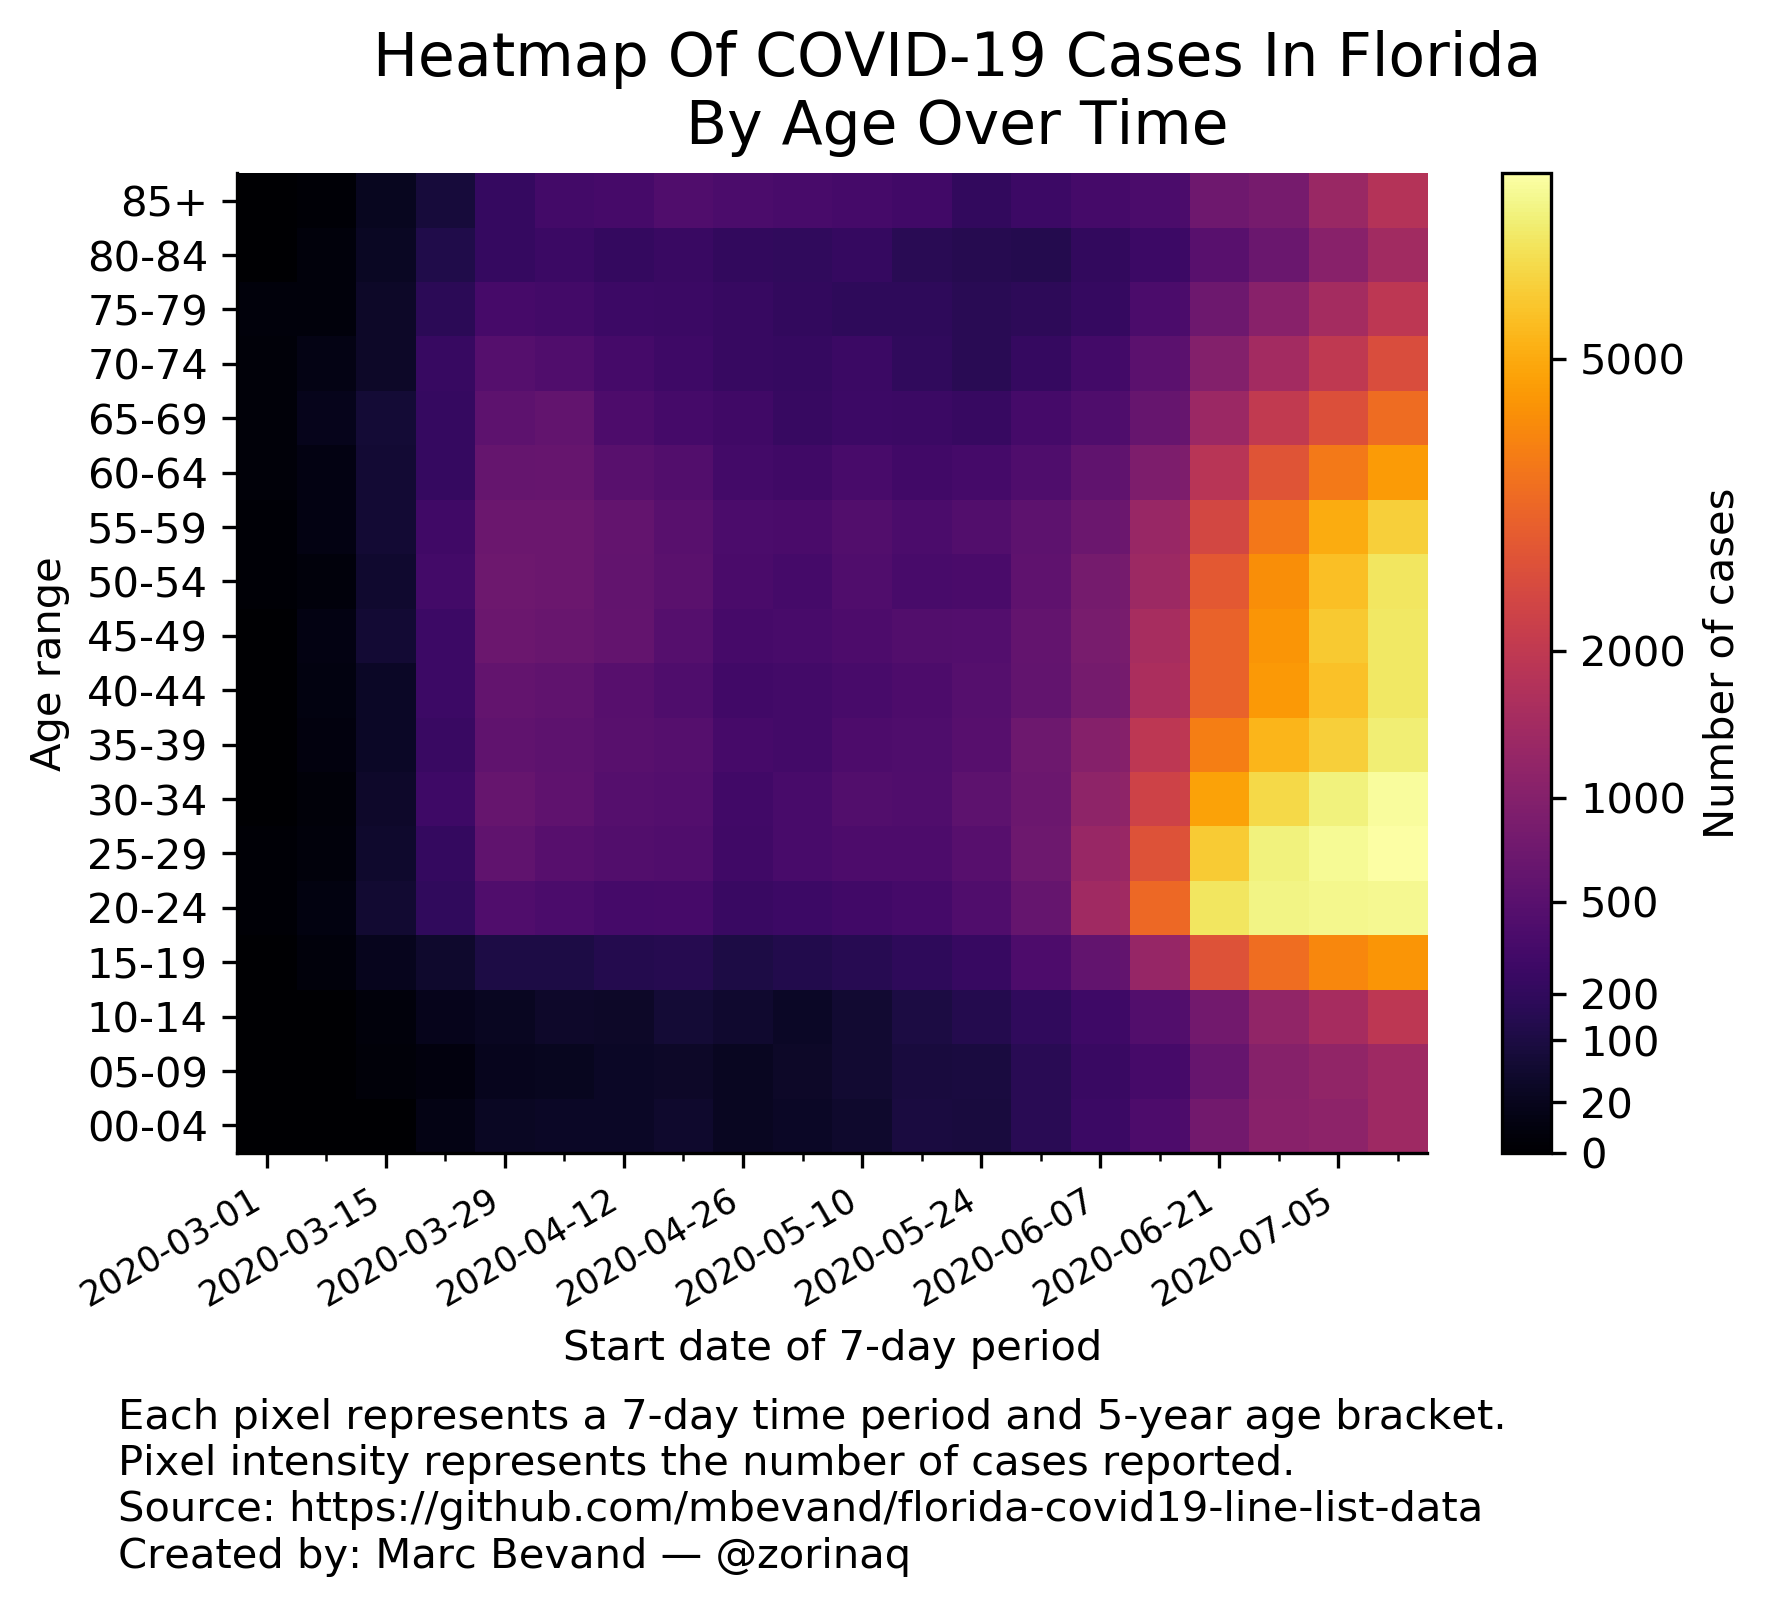
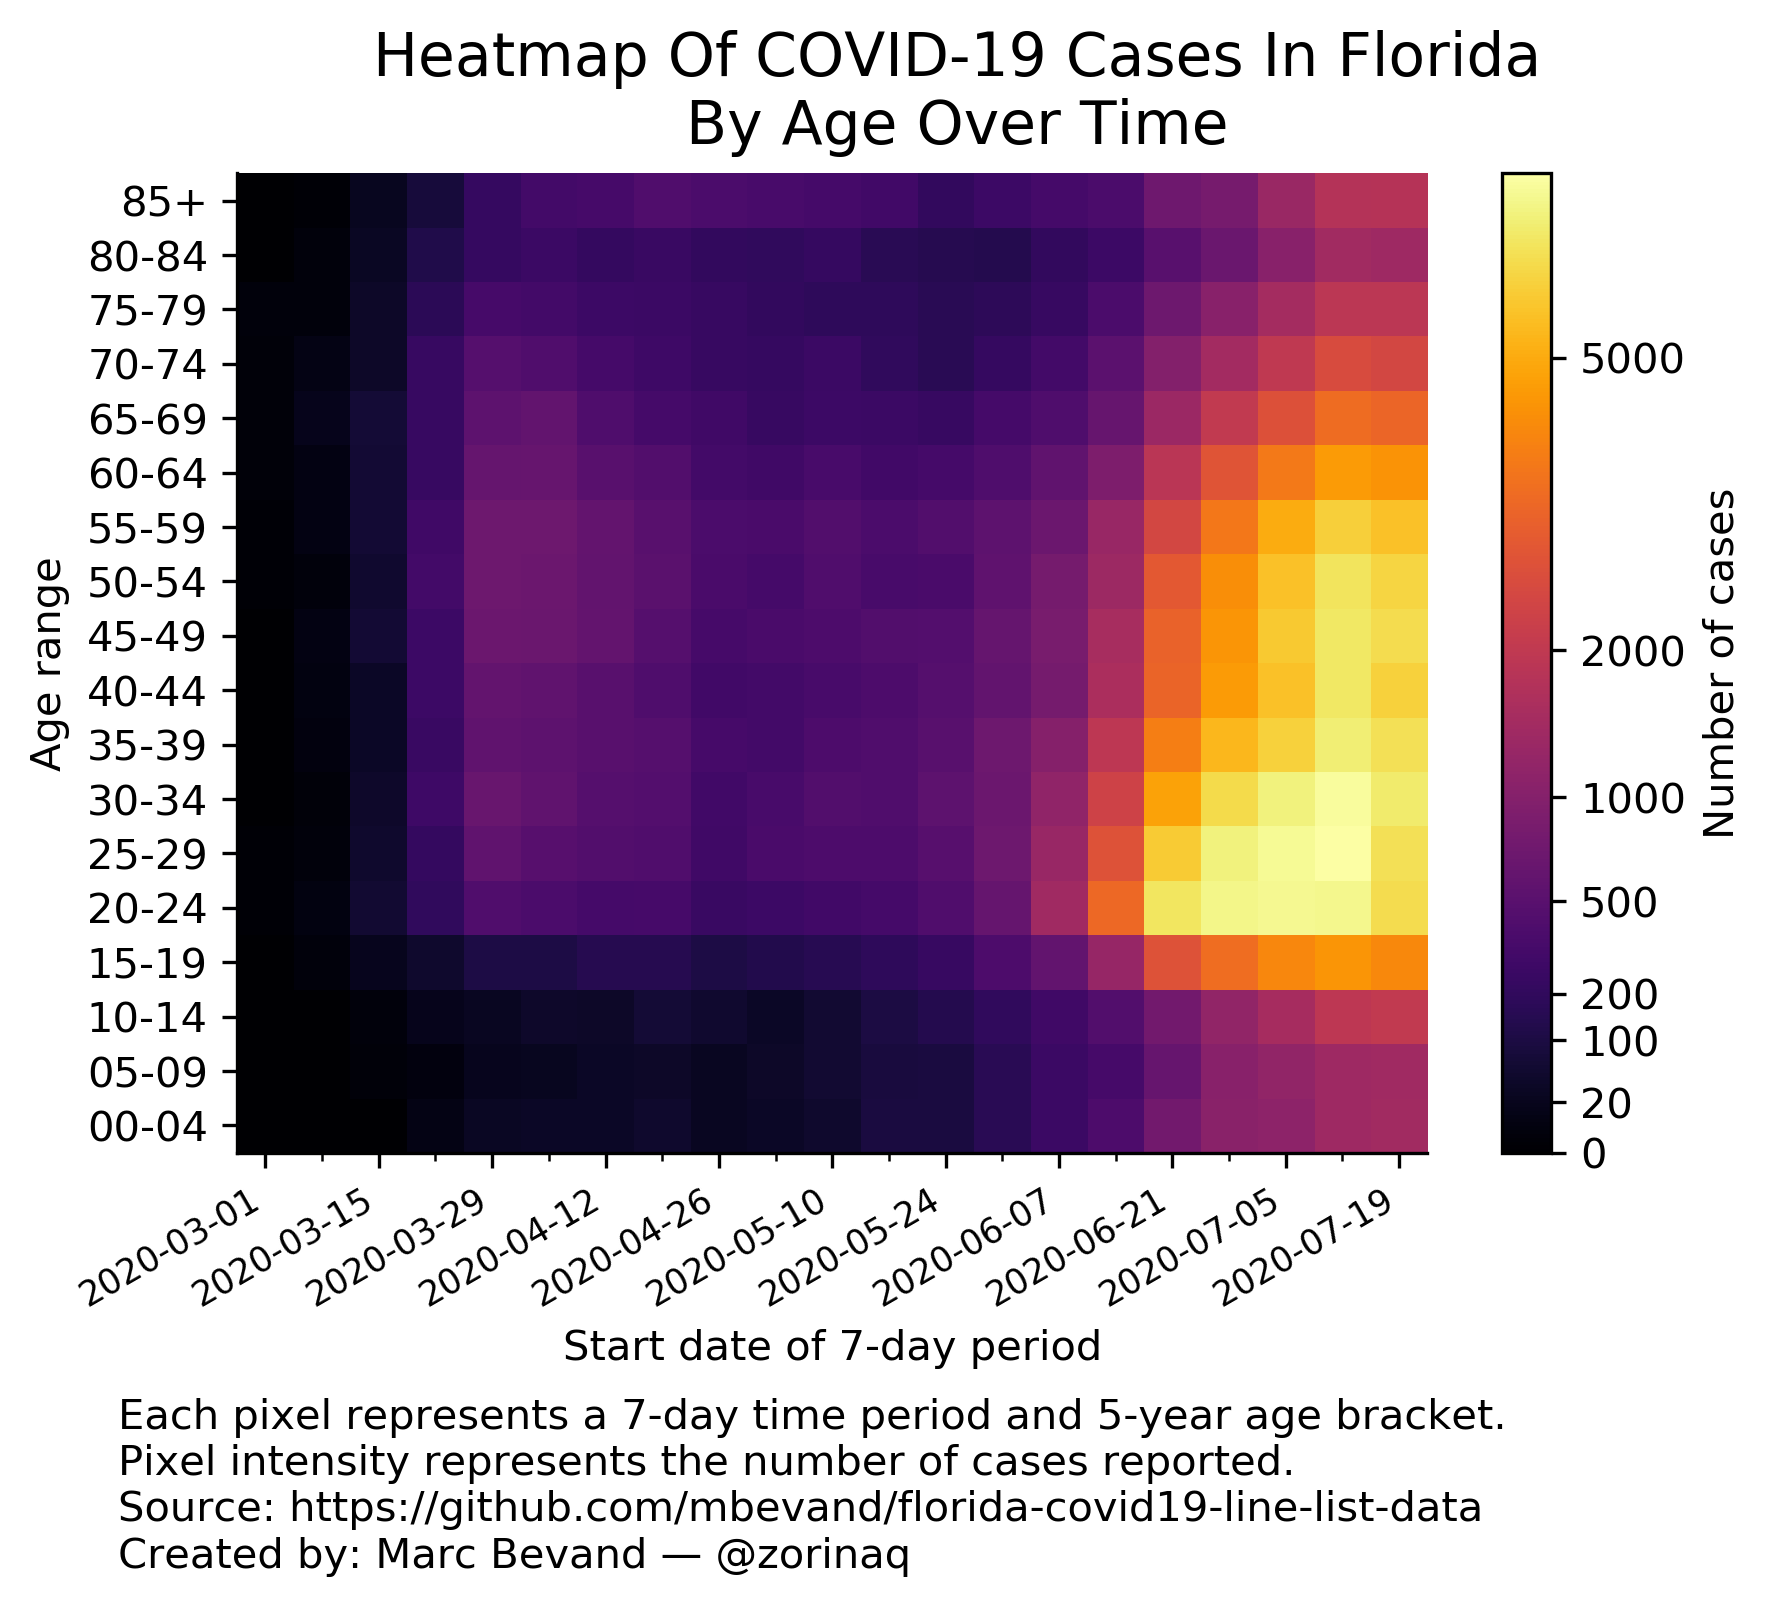
update heatmaps

Changed region(s): [[0.5587, 0.0934, 0.807, 0.7161], [0.0621, 0.7161, 0.776, 0.8095], [0.1862, 0.0934, 0.2793, 0.5915]]

diff --git a/heatmap.py b/heatmap.py
@@ -238,7 +238,7 @@ def main():
             comment='number of cases reported')
     gen_heatmap(share_positive, 'heatmap_age_share', cm='viridis', clabel='Percentage of cases',
             title=' (Percentage)', comment='percentage of cases in the age bracket\namong all cases in the time period')
-    gen_heatmap(cases_per_capita, 'heatmap_per_capita', sqrt=True, cm='jet', clabel='Number of cases per 1000 residents',
+    gen_heatmap(cases_per_capita, 'heatmap_per_capita', sqrt=True, cm='cividis', clabel='Number of cases per 1000 residents',
             title=' (Per Capita)', comment='number of cases reported per capita')
 
 if __name__ == "__main__":

diff --git a/README.md b/README.md
@@ -1,6 +1,6 @@
 # Forecasting deaths and analyzing age trends of COVID-19 cases in Florida
 
-*Updated: 22 July 2020*
+*Updated: 26 July 2020*
 
 Authors: Marc Bevand
 
@@ -292,30 +292,31 @@ It creates various heatmaps of cases by age over time:
 
 ```
 $ ./heatmap.py
-Opening data_fdoh/2020-07-19-10-12-32.csv
+Opening data_fdoh/2020-07-26-08-01-29.csv
 Number of COVID-19 cases per 7-day time period in Florida by age bracket over time:
 period_start, 00-04, 05-09, 10-14, 15-19, 20-24, 25-29, 30-34, 35-39, 40-44, 45-49, 50-54, 55-59, 60-64, 65-69, 70-74, 75-79, 80-84, 85+, median_age
   2020-03-01,     0,     0,     0,     0,     1,     1,     0,     0,     0,     0,     1,     1,     2,     2,     2,     3,     0,     0,  65.0
   2020-03-08,     0,     0,     0,     4,     7,     3,     2,     5,     6,     8,     4,     8,     9,    17,    10,     4,     3,     1,  59.0
   2020-03-15,     0,     2,     3,    21,    57,    48,    45,    36,    34,    63,    54,    64,    64,    67,    40,    41,    30,    26,  53.0
   2020-03-22,    10,     5,    17,    49,   204,   222,   284,   254,   272,   273,   315,   297,   235,   235,   237,   176,   120,    84,  50.0
-  2020-03-29,    32,    21,    28,   109,   428,   577,   651,   583,   604,   701,   716,   705,   631,   550,   470,   345,   234,   228,  50.0
+  2020-03-29,    32,    21,    28,   109,   428,   577,   652,   583,   604,   701,   716,   705,   630,   550,   470,   345,   234,   228,  50.0
   2020-04-05,    34,    25,    42,   108,   383,   481,   568,   541,   577,   669,   699,   706,   636,   593,   419,   314,   262,   325,  51.0
-  2020-04-12,    37,    35,    41,   142,   330,   437,   465,   495,   490,   608,   595,   614,   494,   404,   335,   270,   220,   344,  50.0
-  2020-04-19,    49,    39,    67,   149,   341,   428,   459,   467,   416,   462,   518,   499,   442,   332,   279,   260,   246,   424,  50.0
+  2020-04-12,    37,    35,    41,   142,   330,   437,   465,   495,   490,   608,   595,   614,   493,   404,   335,   270,   220,   344,  50.0
+  2020-04-19,    49,    39,    67,   149,   341,   428,   459,   467,   416,   462,   518,   499,   441,   332,   279,   260,   246,   424,  50.0
   2020-04-26,    29,    29,    55,   111,   251,   296,   308,   339,   305,   348,   375,   382,   323,   301,   240,   237,   205,   383,  52.0
   2020-05-03,    37,    38,    35,   132,   276,   364,   355,   321,   319,   364,   328,   373,   297,   245,   225,   212,   202,   363,  50.0
-  2020-05-10,    51,    58,    60,   151,   313,   401,   435,   399,   354,   399,   424,   432,   353,   270,   261,   191,   225,   334,  49.0
+  2020-05-10,    51,    58,    60,   151,   313,   401,   435,   399,   354,   399,   424,   432,   352,   270,   261,   191,   225,   334,  49.0
   2020-05-17,    94,    88,    98,   193,   329,   392,   423,   417,   392,   443,   357,   379,   306,   257,   197,   189,   161,   312,  46.0
-  2020-05-24,    91,    94,   136,   242,   425,   481,   545,   490,   469,   447,   375,   445,   336,   237,   164,   159,   145,   208,  42.0
-  2020-05-31,   162,   161,   201,   401,   625,   707,   693,   707,   594,   618,   560,   540,   413,   333,   231,   182,   138,   270,  40.0
-  2020-06-07,   257,   256,   290,   592,  1406,  1291,  1159,  1022,   814,   845,   808,   691,   576,   408,   322,   235,   206,   328,  37.0
-  2020-06-14,   393,   342,   435,  1276,  3359,  2754,  2320,  1939,  1608,  1558,  1365,  1281,   916,   651,   529,   378,   272,   378,  34.0
-  2020-06-21,   769,   645,   765,  2760,  6604,  5838,  4819,  3916,  3235,  3201,  2954,  2444,  1869,  1350,   992,   718,   501,   725,  34.0
-  2020-06-28,  1068,  1047,  1202,  3479,  7136,  7010,  6241,  5306,  4597,  4463,  4320,  3758,  2828,  2041,  1464,  1058,   680,   831,  36.0
-  2020-07-05,  1118,  1188,  1529,  4132,  7246,  7350,  6980,  5975,  5586,  5797,  5566,  5030,  3778,  2717,  2002,  1503,  1064,  1315,  39.0
-  2020-07-12,  1388,  1389,  1934,  4495,  7279,  7608,  7481,  6873,  6652,  6648,  6581,  5954,  4632,  3461,  2616,  1935,  1432,  1776,  41.0
-(Last period's data may be incomplete. Age unknown for 661 out of 350047 cases.)
+  2020-05-24,    91,    94,   136,   242,   425,   481,   545,   490,   469,   447,   375,   445,   336,   237,   165,   159,   145,   207,  42.0
+  2020-05-31,   162,   161,   201,   401,   624,   707,   693,   707,   594,   618,   560,   540,   413,   333,   231,   182,   138,   270,  40.0
+  2020-06-07,   257,   256,   290,   592,  1406,  1291,  1159,  1022,   814,   845,   808,   691,   577,   407,   322,   235,   206,   328,  37.0
+  2020-06-14,   392,   342,   435,  1276,  3359,  2755,  2320,  1940,  1608,  1557,  1365,  1281,   916,   651,   529,   378,   272,   378,  34.0
+  2020-06-21,   767,   645,   765,  2762,  6600,  5834,  4815,  3911,  3234,  3197,  2949,  2444,  1869,  1350,   991,   718,   501,   725,  34.0
+  2020-06-28,  1068,  1047,  1203,  3478,  7135,  6999,  6235,  5305,  4598,  4459,  4312,  3751,  2823,  2040,  1464,  1057,   680,   830,  36.0
+  2020-07-05,  1117,  1187,  1528,  4129,  7242,  7340,  6969,  5970,  5583,  5778,  5562,  5017,  3774,  2713,  1998,  1499,  1063,  1308,  39.0
+  2020-07-12,  1384,  1385,  1930,  4481,  7228,  7590,  7462,  6842,  6648,  6627,  6560,  5942,  4617,  3456,  2600,  1926,  1430,  1763,  41.0
+  2020-07-19,  1432,  1416,  2030,  4147,  6341,  6435,  6729,  6397,  6009,  6294,  6083,  5556,  4446,  3277,  2463,  1899,  1376,  1800,  41.0
+(Last period's data may be incomplete. Age unknown for 778 out of 423855 cases.)
 ```
 
 By default the size of each pixel, or *bucket*, is 5-year age brackets and 7-day
